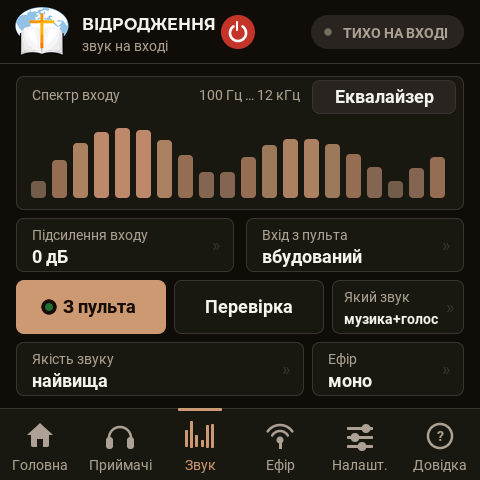
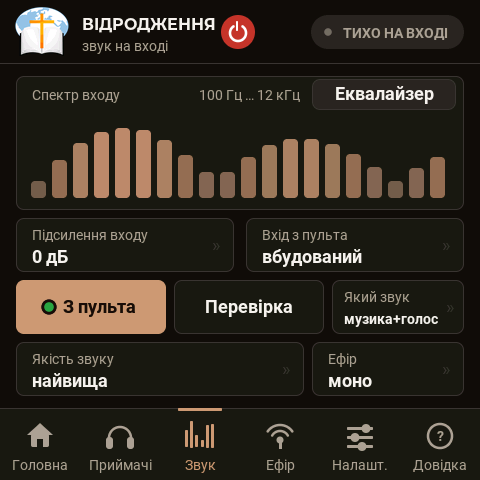
2.48 (not flashed yet): the Equalizer button on the Sound page no longer loses its bottom rows to the spectrum redraw; simulator scene with full-height bars

Changed region(s): [[0.6875, 0.1562, 0.9062, 0.2188], [0.0938, 0.625, 0.125, 0.6562]]

diff --git a/hearlink/txui.h b/hearlink/txui.h
@@ -768,7 +768,10 @@ static Box itemBox(int id) {
     case ID_OTA_OPEN: return Box{ 168, 364, 144, 40 };
     case ID_POWEROFF: return Box{ 16, 332, 448, 52 };
     case ID_ROW + P_LANG: return rowBox(3, 76, 46, 6);
-    case ID_TXEQ_OPEN: return Box{ 312, 80, 144, 34 };   // в шапке плитки спектра, над рисками
+    // В шапке плитки спектра, над рисками. Низ кнопки — не ниже 110: столбик спектра при перерисовке очищает свою
+    // колонку начиная с y = 112 (drawSpectrum: y1 − hmax − 2), и кнопка высотой до 114 теряла две нижние строки
+    // (владелец 09.10: «кнопка еквалайзер срезана снизу»; в имитаторе не видно — там столбики не перерисовываются).
+    case ID_TXEQ_OPEN: return Box{ 312, 79, 144, 31 };
     case ID_ROW + P_GAIN: return Box{ 16, 218, 218, 54 };
     case ID_ROW + P_INPUT: return Box{ 246, 218, 218, 54 };
     case ID_ROW + P_TONE: return Box{ 332, 280, 132, 54 };   // «який звук» — открывает окно настроек проверки

diff --git a/tools/sim/sim.cpp b/tools/sim/sim.cpp
@@ -321,6 +321,21 @@ int main() {
   frame(false, 0, 0);
   tap(40 + 160, 450);
   save("03-zvuk");
+  {   // столбики спектра во весь рост и «дёргаются» — кнопка «Еквалайзер» над ними должна остаться целой
+    uint8_t keep[SPEC_BARS];
+    memcpy(keep, view.spec, sizeof(keep));
+    for (int k = 0; k < 40; k++) {
+      fakeMs += 20;
+      for (int b = 0; b < SPEC_BARS; b++) view.spec[b] = (k & 1) ? 200 : (uint8_t)(20 + (b * 37 + k * 11) % 180);
+      frame(false, 0, 0);
+    }
+    for (int b = 0; b < SPEC_BARS; b++) view.spec[b] = 200;
+    frame(false, 0, 0);
+    save("03-zvuk-spektr-na-ves-zrist");
+    memcpy(view.spec, keep, sizeof(keep));
+    needFull = true;
+    frame(false, 0, 0);
+  }
   { Box b = itemBox(ID_TXEQ_OPEN); tap(b.x + 20, b.y + 10); }
   save("03a-ekvalaizer-vkhodu");
   { Box b = txeqBox(ID_TXEQ_MINUS + 0); tap(b.x + 20, b.y + 20); tap(b.x + 20, b.y + 20); tap(b.x + 20, b.y + 20); }   // низ: −6 дБ

diff --git a/CHANGELOG.md b/CHANGELOG.md
@@ -1,6 +1,8 @@
 # Changelog / Історія версій
 
 ## 2.48 — 2026-10-09 (not yet released / ще не випущено)
+- EN: fixed: the “Equalizer” button on the “Sound” page lost its two bottom pixel rows when the spectrum bars redrew.
+- UK: виправлено: кнопка «Еквалайзер» на сторінці «Звук» втрачала два нижні рядки точок, коли перемальовувався спектр.
 - EN: **receiver volume boost** (menu “Boost”, or from the transmitter: receiver window → “Settings” → “Equalizer” →
   “Volume boost”): 0…+24 dB of digital gain above “audio as it is”, for a weak headphone amplifier. The boost only
   uses the room left below full scale: quiet audio gets all of it, loud audio as much as fits, so it does not bring
